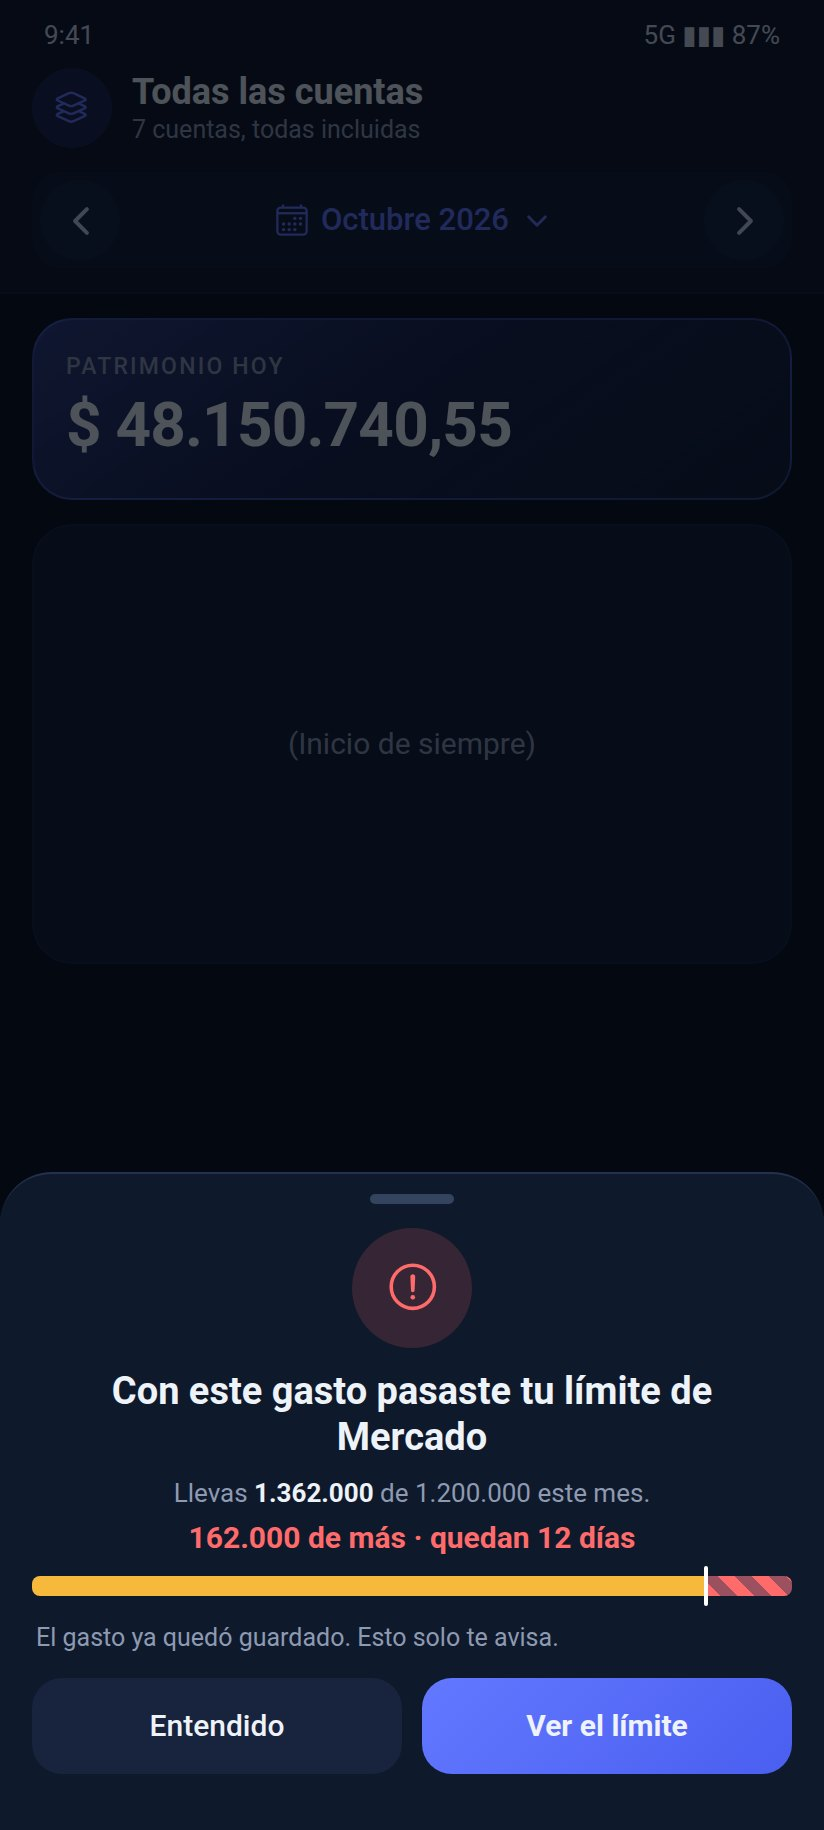
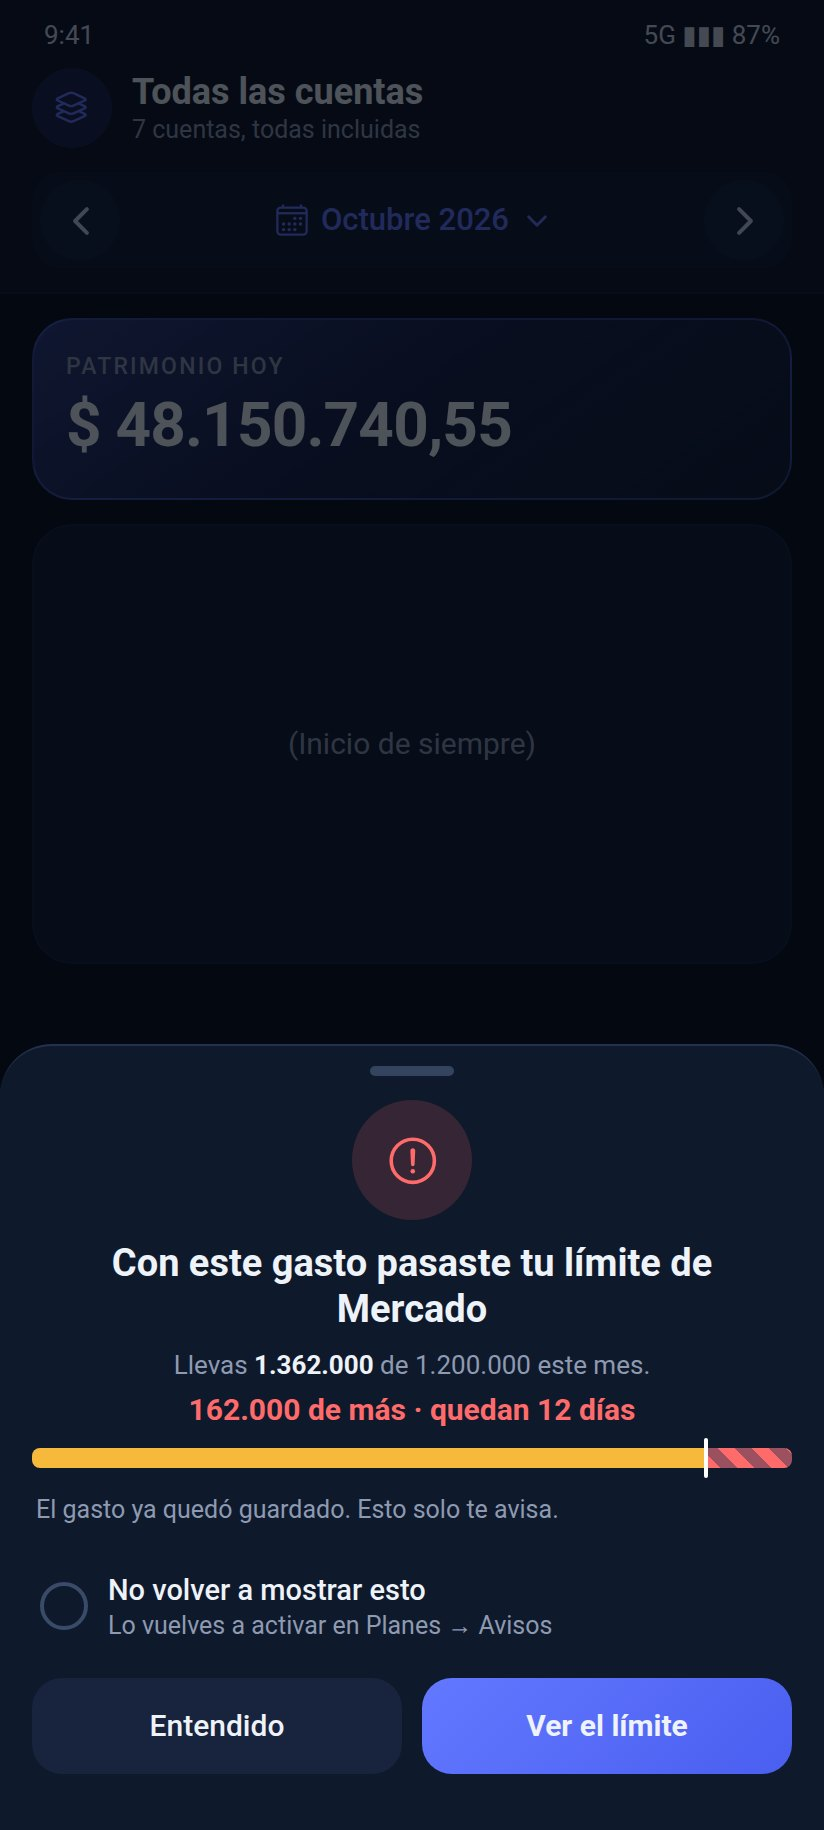
Mockups: the total passed in a calmer red, and every limit notice can be turned off
Claude-Session: https://claude.ai/code/session_01QyUqFix1SMdsKVBtd1Wz88

Changed region(s): [[0.0, 0.5607, 1.0, 0.9033]]

diff --git a/docs/mockups/README.md b/docs/mockups/README.md
@@ -36,7 +36,7 @@ Every list of movements is in folding sections (by day or category), only the fi
 | `13s` | **How the loan screens lead to one another** (`src/flow-13.mjs`): Resumen → Abonar → Registrar el abono → Cuotas, and the other exits |
 | `14a`–`14f` | **Part 3, plans, step 1: spending limits, for approval** (2026-10-01; invented figures): Planes in Más → Tus finanzas, Planes with no limit yet (the categories where the money goes most, one tap from a limit), Planes with limits in their colours, a new limit (the average of 3 months offered), one limit (the pace, the months before against the line, what counts this month), Inicio saying only when a limit is close or passed. Goals are step 2 |
 | `14g`–`14k` | **A limit passed, made to stand out** (Jose: a red bar is not enough): Planes with a red card on top like an overdue card and the limit marked "Pasado" with its bar running past the mark; the sheet that says so the moment the movement that crosses it is saved; Inicio with the same red card on top; the phone's own notification (100 % in red, 80 % before it); the limit's page when passed, with a more realistic figure for next month |
-| `14l`–`14o` | **The total of all limits passed, louder still**: the whole card solid red (not tinted) on top of Planes, with what passed and what is still fine; the same solid card first in Inicio; the whole screen red once when the movement that crosses the total is saved (it blocks nothing); the phone notification in red above the others; a red dot on Más |
+| `14l`–`14p` | **The total of all limits passed** (v2, Jose: the solid red of v1 was too invasive): the same tinted red as one limit, saying it is the total and which limits passed, on Planes and on top of Inicio; the sheet at saving, the same as one limit's; the phone notification with its title in red; a red dot on Más. **Every notice at saving carries "No volver a mostrar esto"** (`14h`, `14n`), and the bell in Planes opens **Avisos** (`14p`): at saving, the phone notification and the 80 % one, each turned off and back on |
 | `6a`–`6z` | Group 6 (v5): Por revisar - the account on top, the batch and its list by day, the notices on rows, shops that repeat, the check's bubble; a movement checked in the one movement form (its note with suggestions, missing its category, maybe the same); choosing several by day and by shop, and saving them; the filter-and-order sheet, a filter on; the account list with Todas first; the "···" and discarding; squaring with the bank (its (i), its question); reading a statement - whose it is, the password, the stages, what was read (a toast), one that does not square, one that cannot be read; nothing to review |
 | `7a`–`7m` | Group 7 (v4): Avisos del banco - the apps and their switches, the (i), what they said by day, choosing several apps, hiding, hidden apps, the "···" and forgetting everything, without permission and its (i), nothing yet, a search with nothing |
 | `8a`–`8q` | Group 8 (v5): Más (replacing the drawer), language and appearance, Importar y exportar with its (i)'s, restoring and its question, Google signed out and in, saving alone, bringing the copy back, replacing another device's copy, changing account; appearance with the colour of the app |
